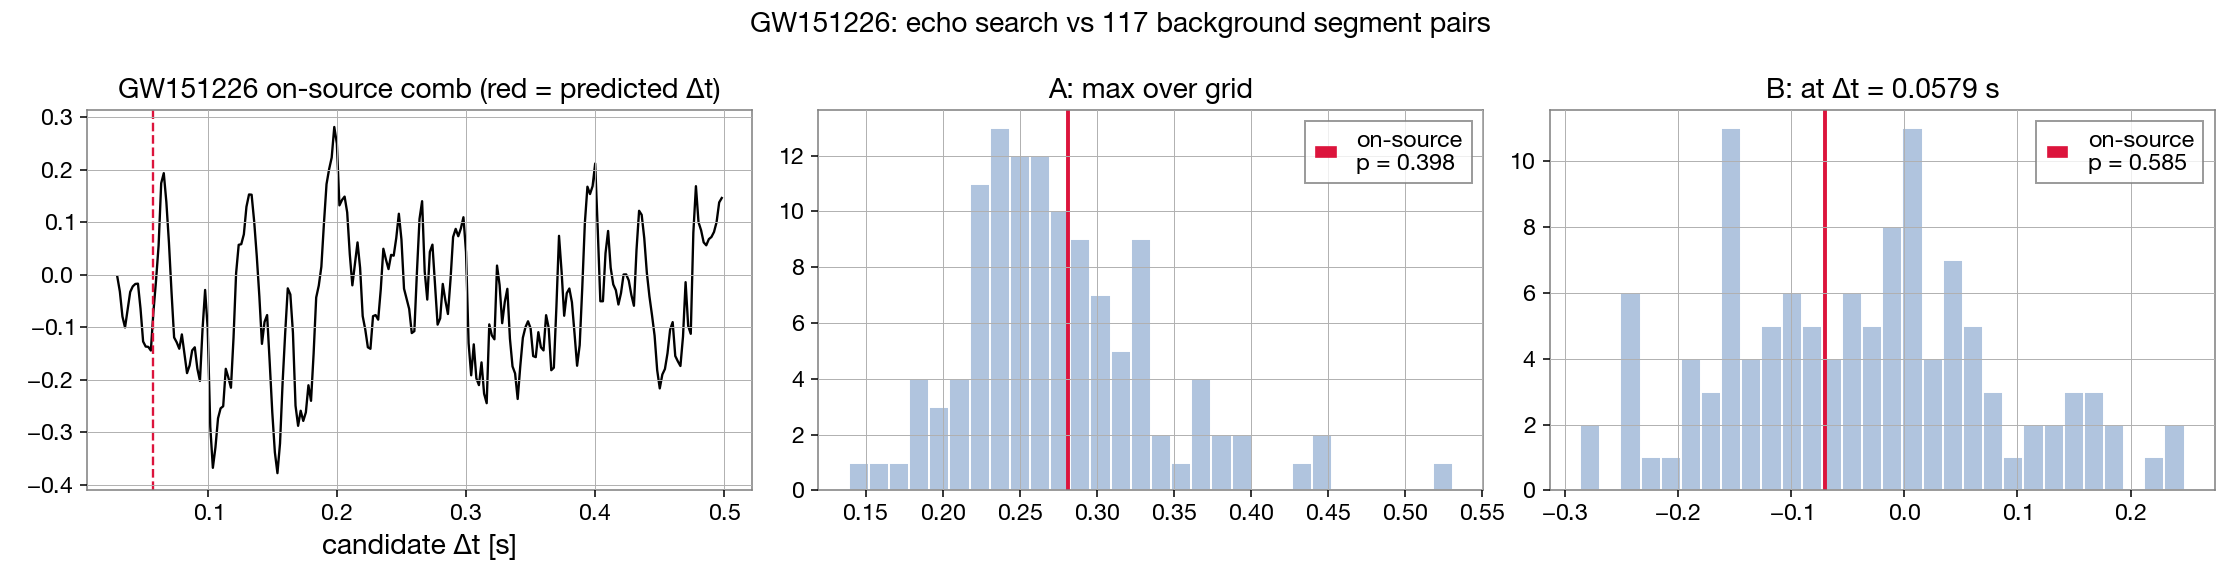
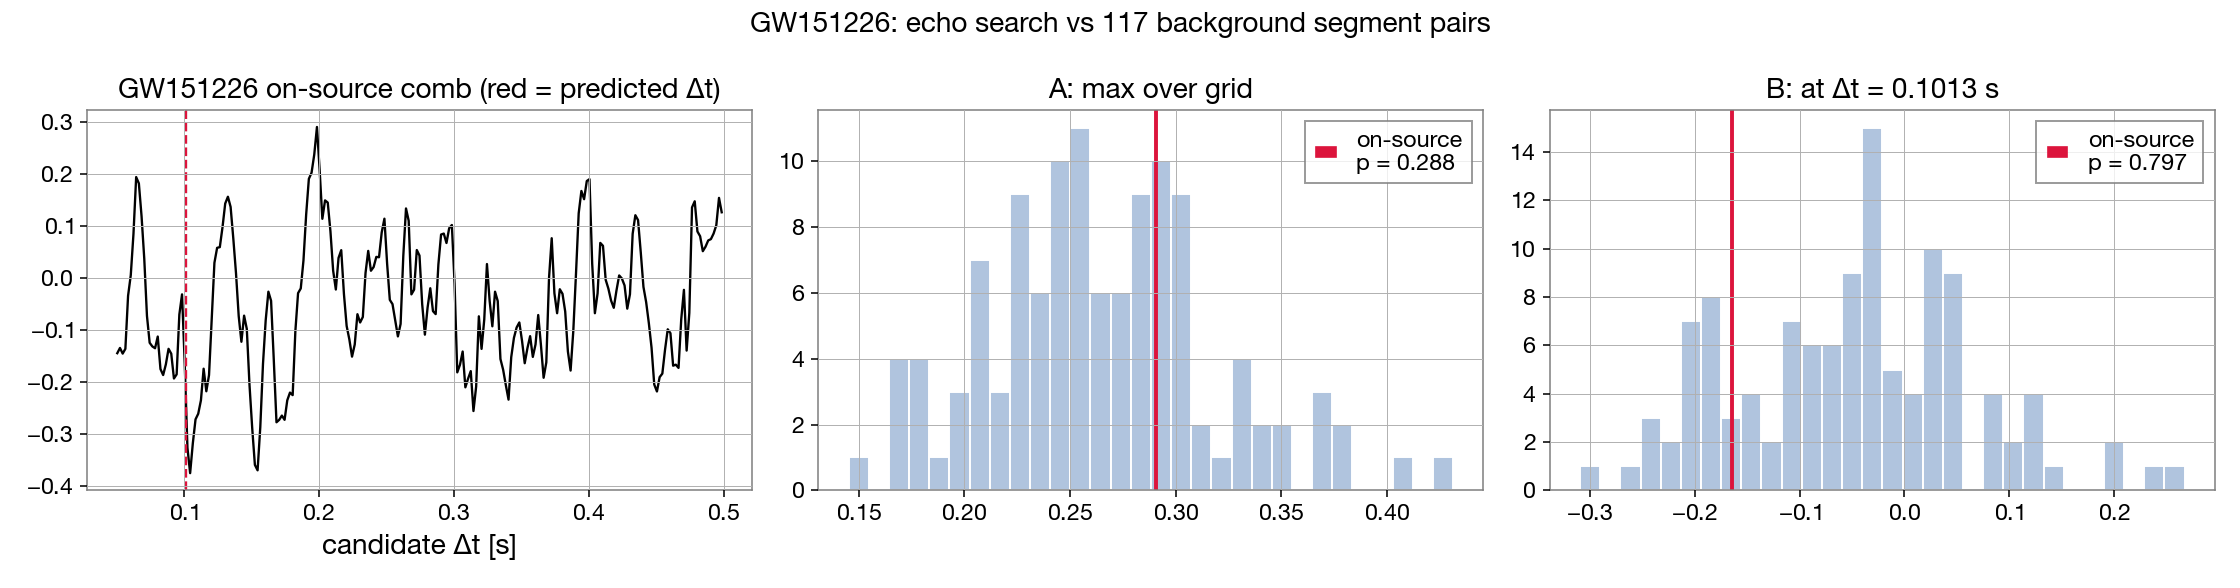
Re-run GW151226 + GW151012 echoes at corrected Δt -- nulls hold
GW151226 (Δt=0.1013): on-source p=0.288/0.797, upper limit A90=1.61σ. GW151012 (=Abedi's
LVT151012, renamed GWTC-1; Δt=0.1778): p=0.188/0.194. Both clean nulls -- the wrong-Δt bug
did not hide a detection. LVT151012 404'd under old name -> run_event.py updated to GW151012.
GW150914 unaffected. Docs: echoes lab notebook.

diff --git a/echoes/scripts/run_event.py b/echoes/scripts/run_event.py
@@ -26,7 +26,7 @@ from echolib import DETECTORS, RESULTS, comb_score, load_segments
 # f0 ~ remnant ringdown frequency (sets the search band, injections in step 06).
 EVENTS = {
     "GW150914": {"dt_pred": 0.2925, "f0": 250.0, "band": (30.0, 350.0)},
-    "LVT151012": {"dt_pred": 0.1778, "f0": 430.0, "band": (30.0, 600.0)},  # Abedi Table I (was wrongly 0.1013)
+    "GW151012": {"dt_pred": 0.1778, "f0": 430.0, "band": (30.0, 600.0)},  # = Abedi's "LVT151012" (renamed in GWTC-1); Δt Abedi Table I (was wrongly 0.1013)
     "GW151226": {"dt_pred": 0.1013, "f0": 750.0, "band": (30.0, 900.0)},   # Abedi Table I (was wrongly 0.0579)
 }
 

diff --git a/echoes/notes/lab_notebook.md b/echoes/notes/lab_notebook.md
@@ -373,5 +373,9 @@ membrane at proper distance 1·ℓ_P above r₊ (coordinate offset δ = ℓ_P²(
   repo had GW151226's value mislabeled onto LVT151012, and an unrelated 0.0579 on GW151226). A *prior* session's
   "correction" of GW151226 0.105→0.0579 was itself the error (Abedi's value is 0.1013 ≈ the original 0.105). Fixed
   in 11_upper_limits.py, run_event.py, 13_independent_bg.py. **GW150914 (the gated/headline event) was always
-  correct (0.2925).** ⚠️ The GW151226 + LVT151012 prior results (upper limits, run_event) were at the wrong Δt →
-  flagged for re-run. Artifact: results/14_echo_spacing.json.
+  correct (0.2925).** Artifact: results/14_echo_spacing.json.
+- **Re-run at corrected Δt (2026-06-25): all nulls HOLD.** Regenerated the two affected events at the right
+  spacing: **GW151226** (Δt=0.1013) on-source p=0.288 (max) / 0.797 (at Δt), upper limit **A90=1.61σ**;
+  **GW151012** (Abedi's "LVT151012", renamed in GWTC-1; Δt=0.1778) p=0.188 / 0.194. Both clean nulls — the
+  Δt-value bug did not hide a detection. (LVT151012 404'd under the old name → updated run_event.py to GW151012.)
+  GW150914 unchanged. Artifacts: 11_upper_limits_GW151226.{npy,png}, GW151226_run.png, GW151012_run.png.